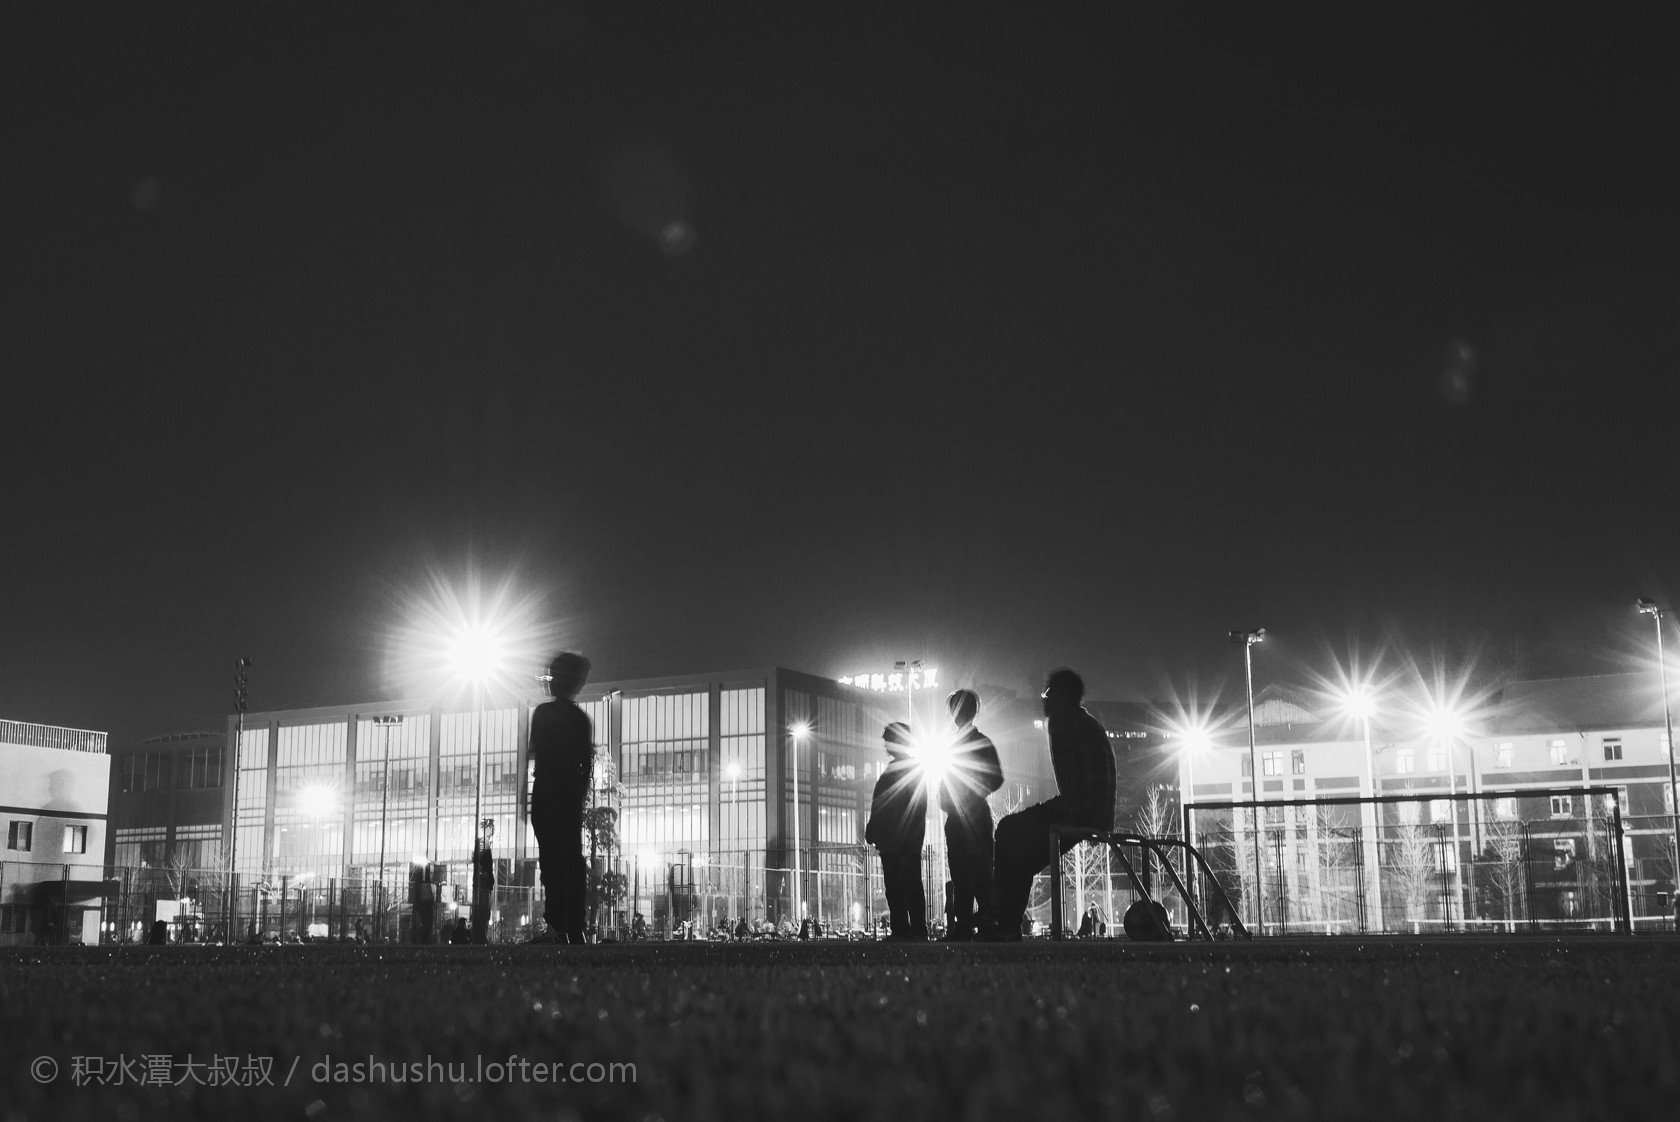
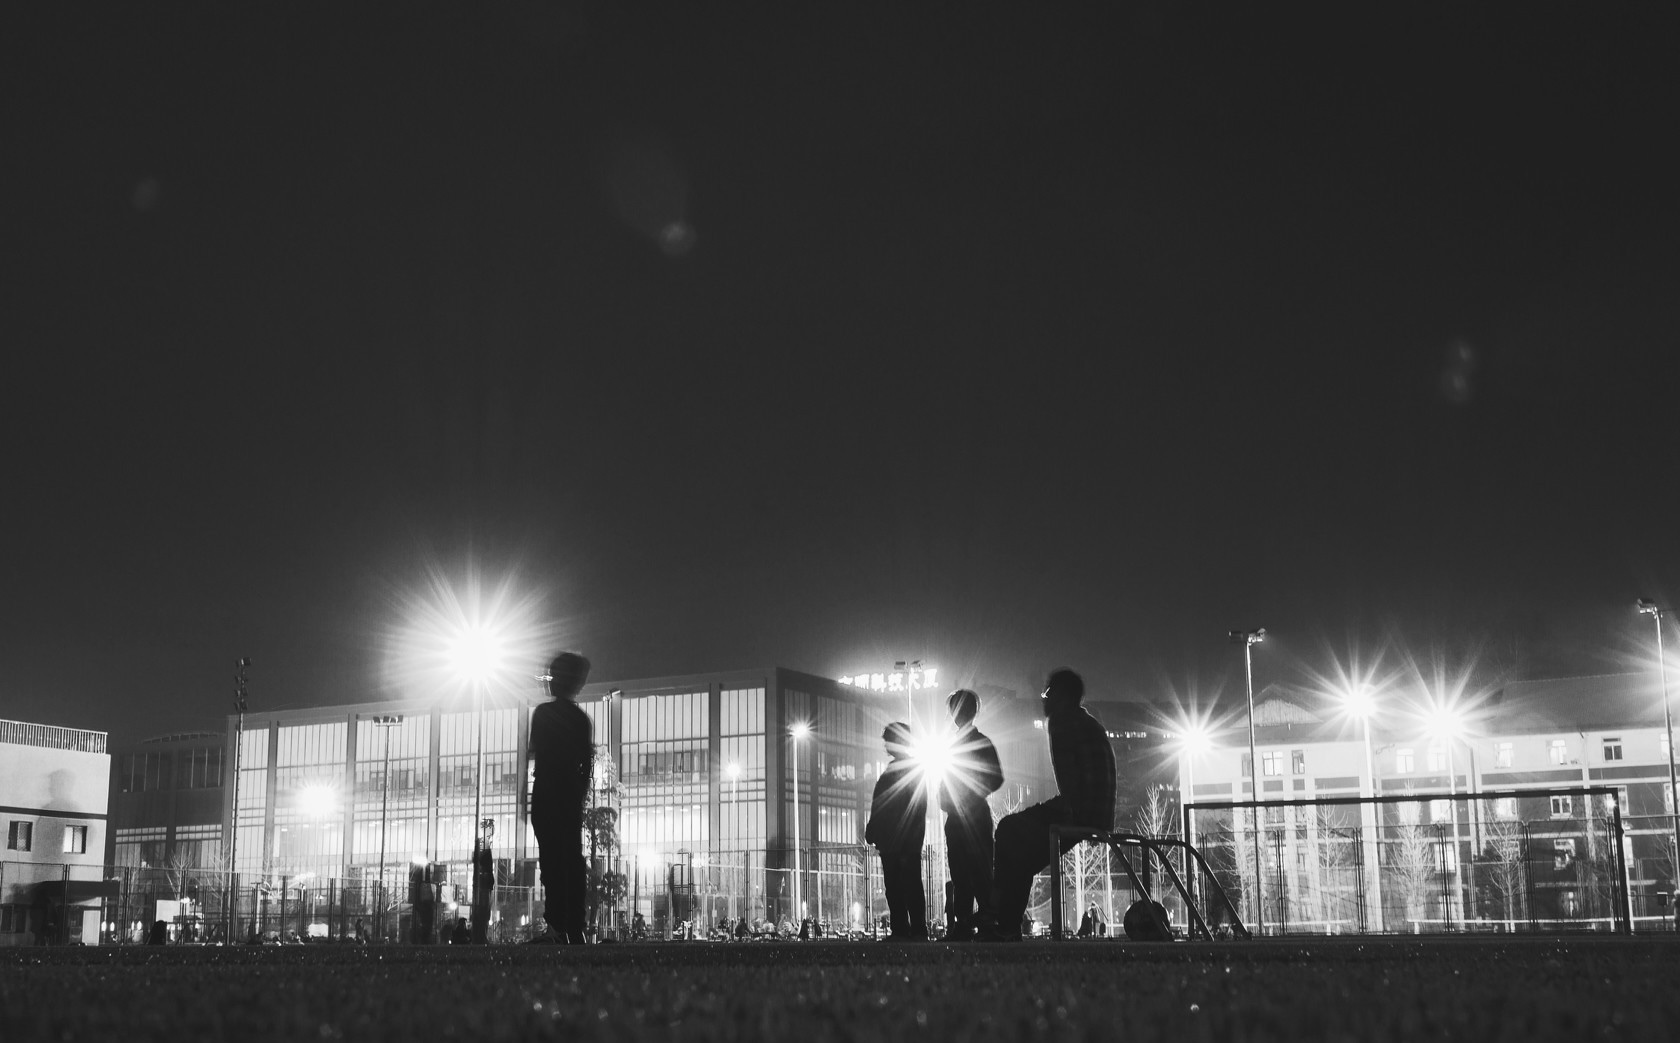
chore: 更新 about 页面图片并调整容器比例

Changed region(s): [[0.0, 0.4909, 1.0, 0.9818], [0.1857, 0.9511, 0.3714, 0.9818]]

diff --git a/themes/prince/source/css/main.css b/themes/prince/source/css/main.css
@@ -1173,8 +1173,8 @@ h3.aside-title {
 
 .about-me-image {
   margin-top: 20px;
-  padding-top: 66.8%;
-  background-image: url('/aboutme.jpg');
+  padding-top: 62.08%;
+  background-image: url('/aboutme.jpg?v=2');
   background-size: cover;
   background-repeat: no-repeat;
   background-position: center;

diff --git a/.workbuddy/memory/2026-08-13.md b/.workbuddy/memory/2026-08-13.md
@@ -54,3 +54,7 @@
 - 调整 `themes/prince/source/css/main.css` 中 `.about-me-image`: `padding-top:66.8%` 匹配图片比例, `background-size: cover`, `background-position: center`
 - 诗歌文字放在 `<p class="about-me-text">` 中,用 `<br>` 保留换行,应用居中样式
 - 注意: 沙箱网络下 hexo deploy 推送可能失败(502),需用非沙箱模式重试
+
+## 微调 about 页面(第七次)
+
+- 移除 about 页面顶部 "ABOUT ME" 标题: 修改 `themes/prince/layout/page.jade`, 删除 about 分支下的 `h3.aside-title ABOUT ME`
